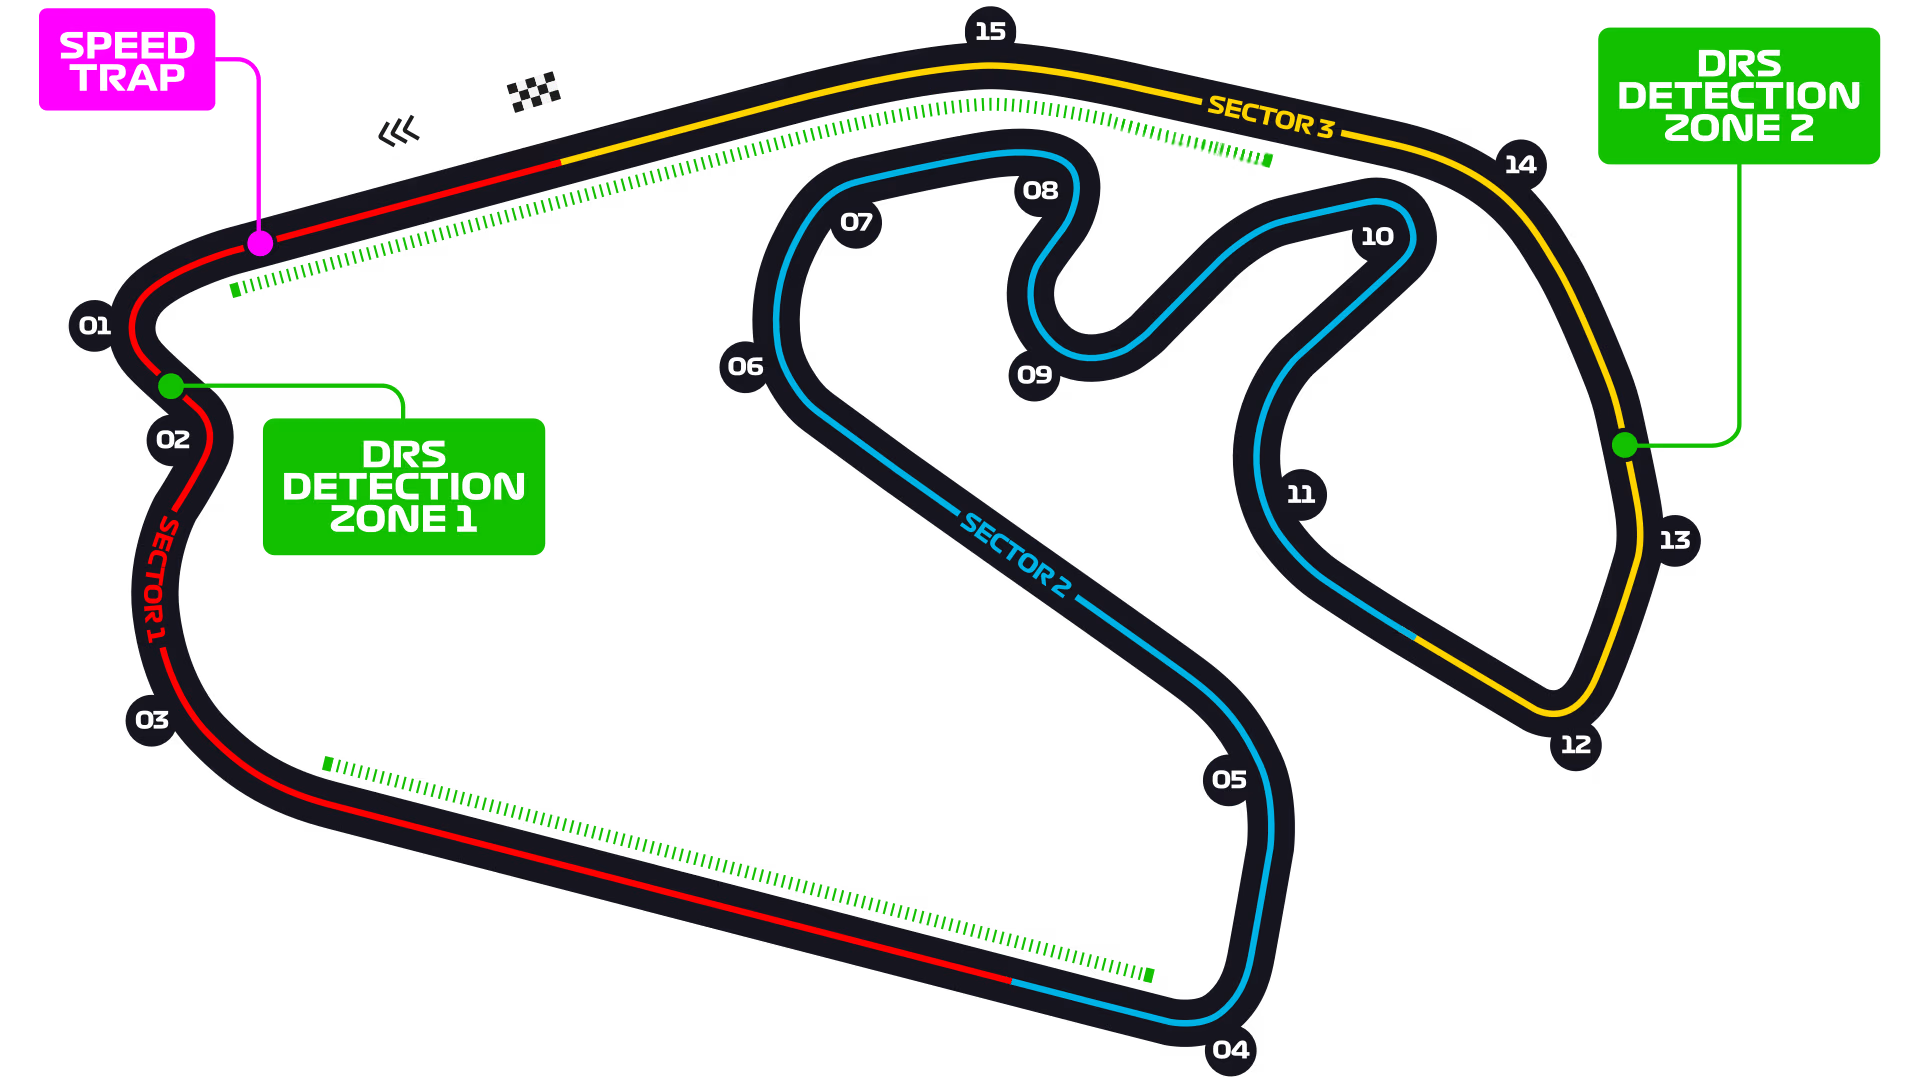
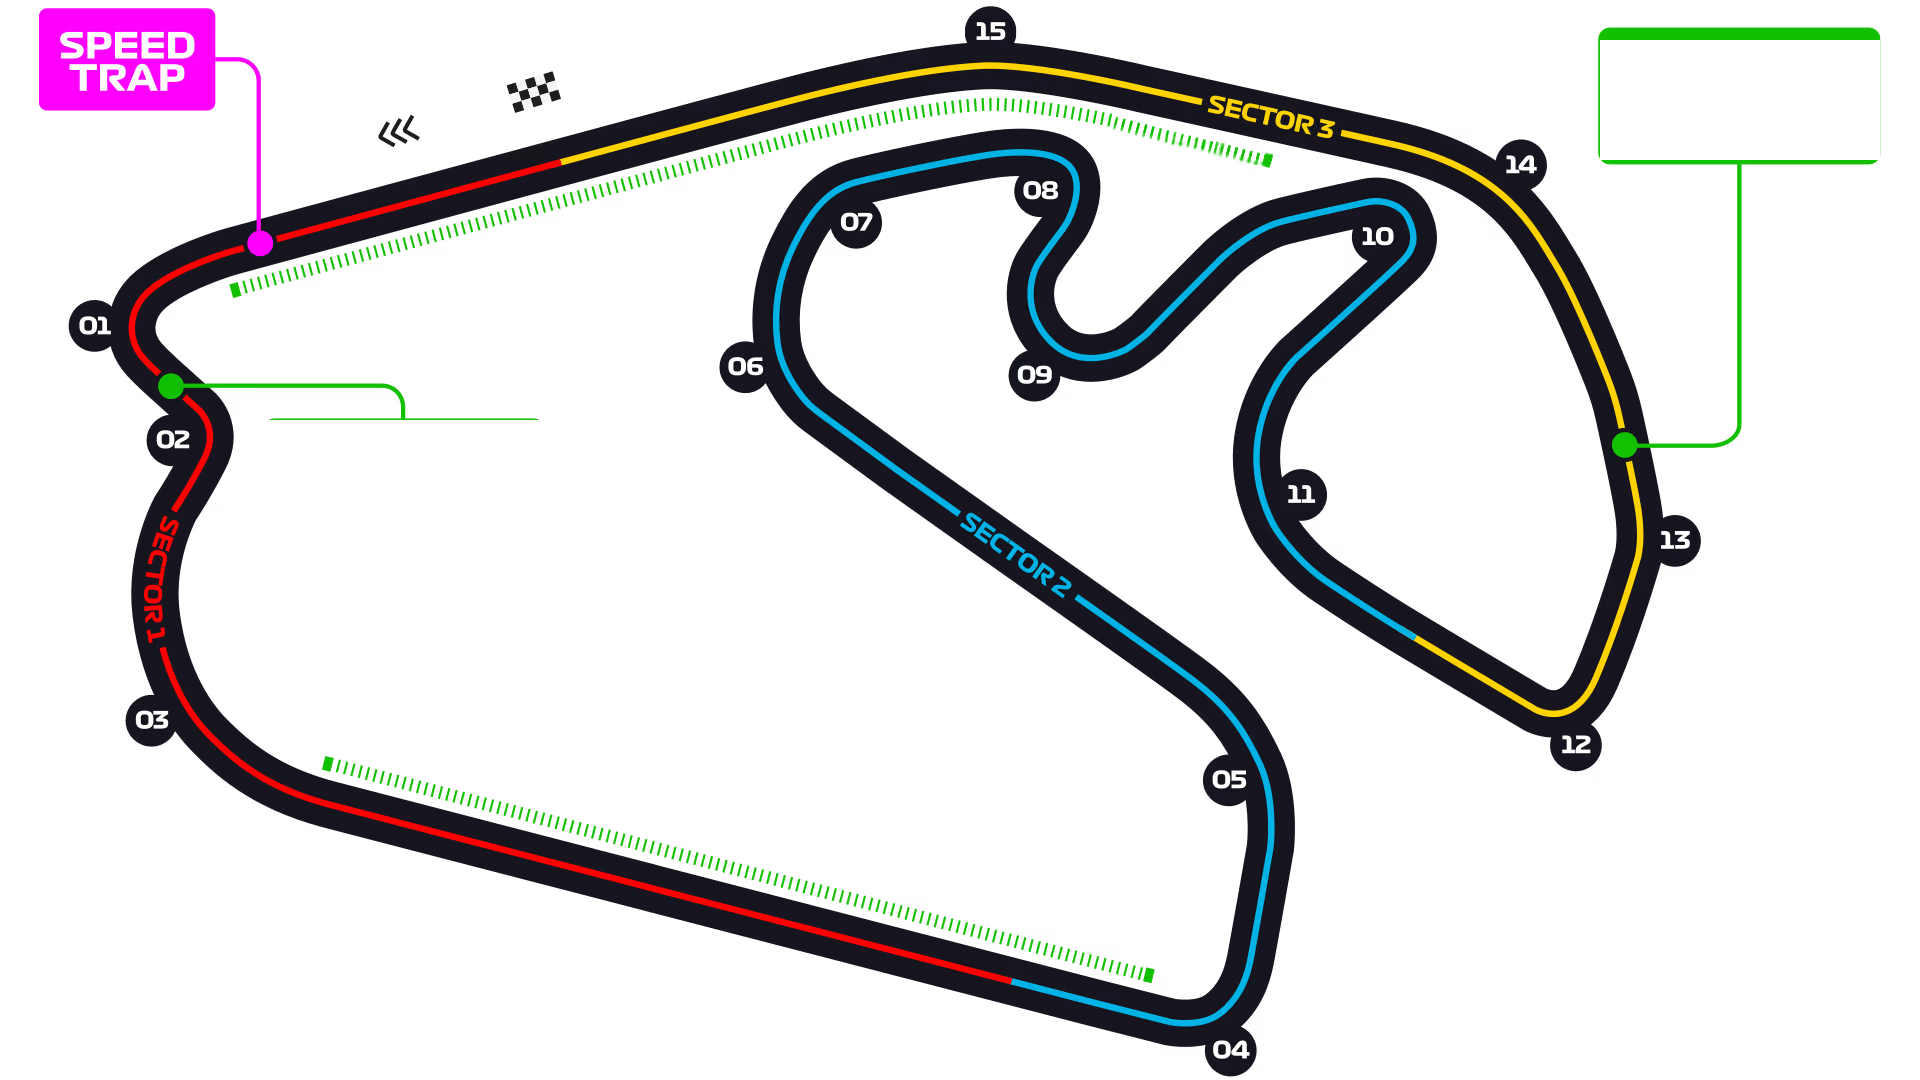
fix: remove DRS detection zones, widen track panel, and precisely align car trajectory to asphalt centerline

Changed region(s): [[0.125, 0.3667, 0.2812, 0.5194], [0.8125, 0.0306, 1.0, 0.1528]]

diff --git a/src/index.css b/src/index.css
@@ -2580,10 +2580,15 @@ select:focus-visible { outline: 2px solid var(--accent); outline-offset: 2px; }
 
 .tracker-split-layout {
   display: grid;
-  grid-template-columns: 410px 1fr;
+  grid-template-columns: 290px 1fr;
   width: 100%;
   height: 100%;
   overflow: hidden;
+  transition: grid-template-columns 0.25s ease;
+}
+
+.tracker-split-layout.wide-track {
+  grid-template-columns: 250px 1fr;
 }
 
 @media (max-width: 960px) {
@@ -2610,7 +2615,7 @@ select:focus-visible { outline: 2px solid var(--accent); outline-offset: 2px; }
 
 /* Vertical Position Ladder (P1 to P20) */
 .vertical-position-ladder {
-  width: 82px;
+  width: 68px;
   background: #0e1015;
   border-right: 1px solid #1c202a;
   display: flex;
@@ -2710,9 +2715,9 @@ select:focus-visible { outline: 2px solid var(--accent); outline-offset: 2px; }
   flex: 1;
   display: flex;
   flex-direction: column;
-  padding: 14px 16px;
+  padding: 10px 12px;
   overflow-y: auto;
-  gap: 14px;
+  gap: 10px;
   background: #12141c;
 }
 
@@ -2720,14 +2725,14 @@ select:focus-visible { outline: 2px solid var(--accent); outline-offset: 2px; }
   display: flex;
   align-items: center;
   justify-content: space-between;
-  padding-bottom: 12px;
+  padding-bottom: 8px;
   border-bottom: 1px solid #202430;
 }
 
 .cdh-left {
   display: flex;
   align-items: center;
-  gap: 10px;
+  gap: 8px;
 }
 
 .cdh-name-row {
@@ -2737,13 +2742,13 @@ select:focus-visible { outline: 2px solid var(--accent); outline-offset: 2px; }
 }
 
 .cdh-code {
-  font: 700 20px/1 var(--display);
+  font: 700 18px/1 var(--display);
   letter-spacing: .06em;
   color: #ffffff;
 }
 
 .cdh-team {
-  font: 600 12px var(--display);
+  font: 600 11px var(--display);
   text-transform: uppercase;
 }
 
@@ -2761,7 +2766,7 @@ select:focus-visible { outline: 2px solid var(--accent); outline-offset: 2px; }
 }
 
 .cdh-best-lap {
-  font: 700 13px var(--display);
+  font: 700 12px var(--display);
   color: #c084fc;
   font-variant-numeric: tabular-nums;
 }
@@ -2780,12 +2785,12 @@ select:focus-visible { outline: 2px solid var(--accent); outline-offset: 2px; }
   display: flex;
   flex-direction: column;
   align-items: center;
-  gap: 14px;
+  gap: 10px;
 }
 
 .gauge-dial-wrap {
-  width: 200px;
-  height: 200px;
+  width: 175px;
+  height: 175px;
   position: relative;
 }
 

diff --git a/src/components/LiveInteractiveDashboard.tsx b/src/components/LiveInteractiveDashboard.tsx
@@ -62,6 +62,7 @@ export const LiveInteractiveDashboard: React.FC<LiveInteractiveDashboardProps> =
   const [speedMultiplier, setSpeedMultiplier] = useState<number>(1);
   const [zoomLevel, setZoomLevel] = useState<number>(1);
   const [isFullscreen, setIsFullscreen] = useState(false);
+  const [isWideTrack, setIsWideTrack] = useState(true);
 
   // Lap State
   const [currentLap] = useState(48);
@@ -356,7 +357,7 @@ export const LiveInteractiveDashboard: React.FC<LiveInteractiveDashboardProps> =
       <div className="f1-pitwall-main-body">
         {/* VIEW 1: DRIVER TRACKER & COCKPIT HUD (Default) */}
         {topTab === "tracker" && (
-          <div className="tracker-split-layout">
+          <div className={`tracker-split-layout${isWideTrack ? " wide-track" : ""}`}>
             {/* LEFT SECTION: Vertical Ladder & Cockpit HUD */}
             <div className="tracker-left-panel">
               {/* Vertical Position Strip (P1 to P20) */}
@@ -517,6 +518,14 @@ export const LiveInteractiveDashboard: React.FC<LiveInteractiveDashboardProps> =
                   title="Simulation Speed Multiplier"
                 >
                   {speedMultiplier}x
+                </button>
+                <button
+                  type="button"
+                  className={`map-ctrl-btn${isWideTrack ? " active" : ""}`}
+                  onClick={() => setIsWideTrack((w) => !w)}
+                  title={isWideTrack ? "Reset to Standard View" : "Make Track Section Wide"}
+                >
+                  <span>{isWideTrack ? "⛶" : "↔"}</span>
                 </button>
               </div>
 
